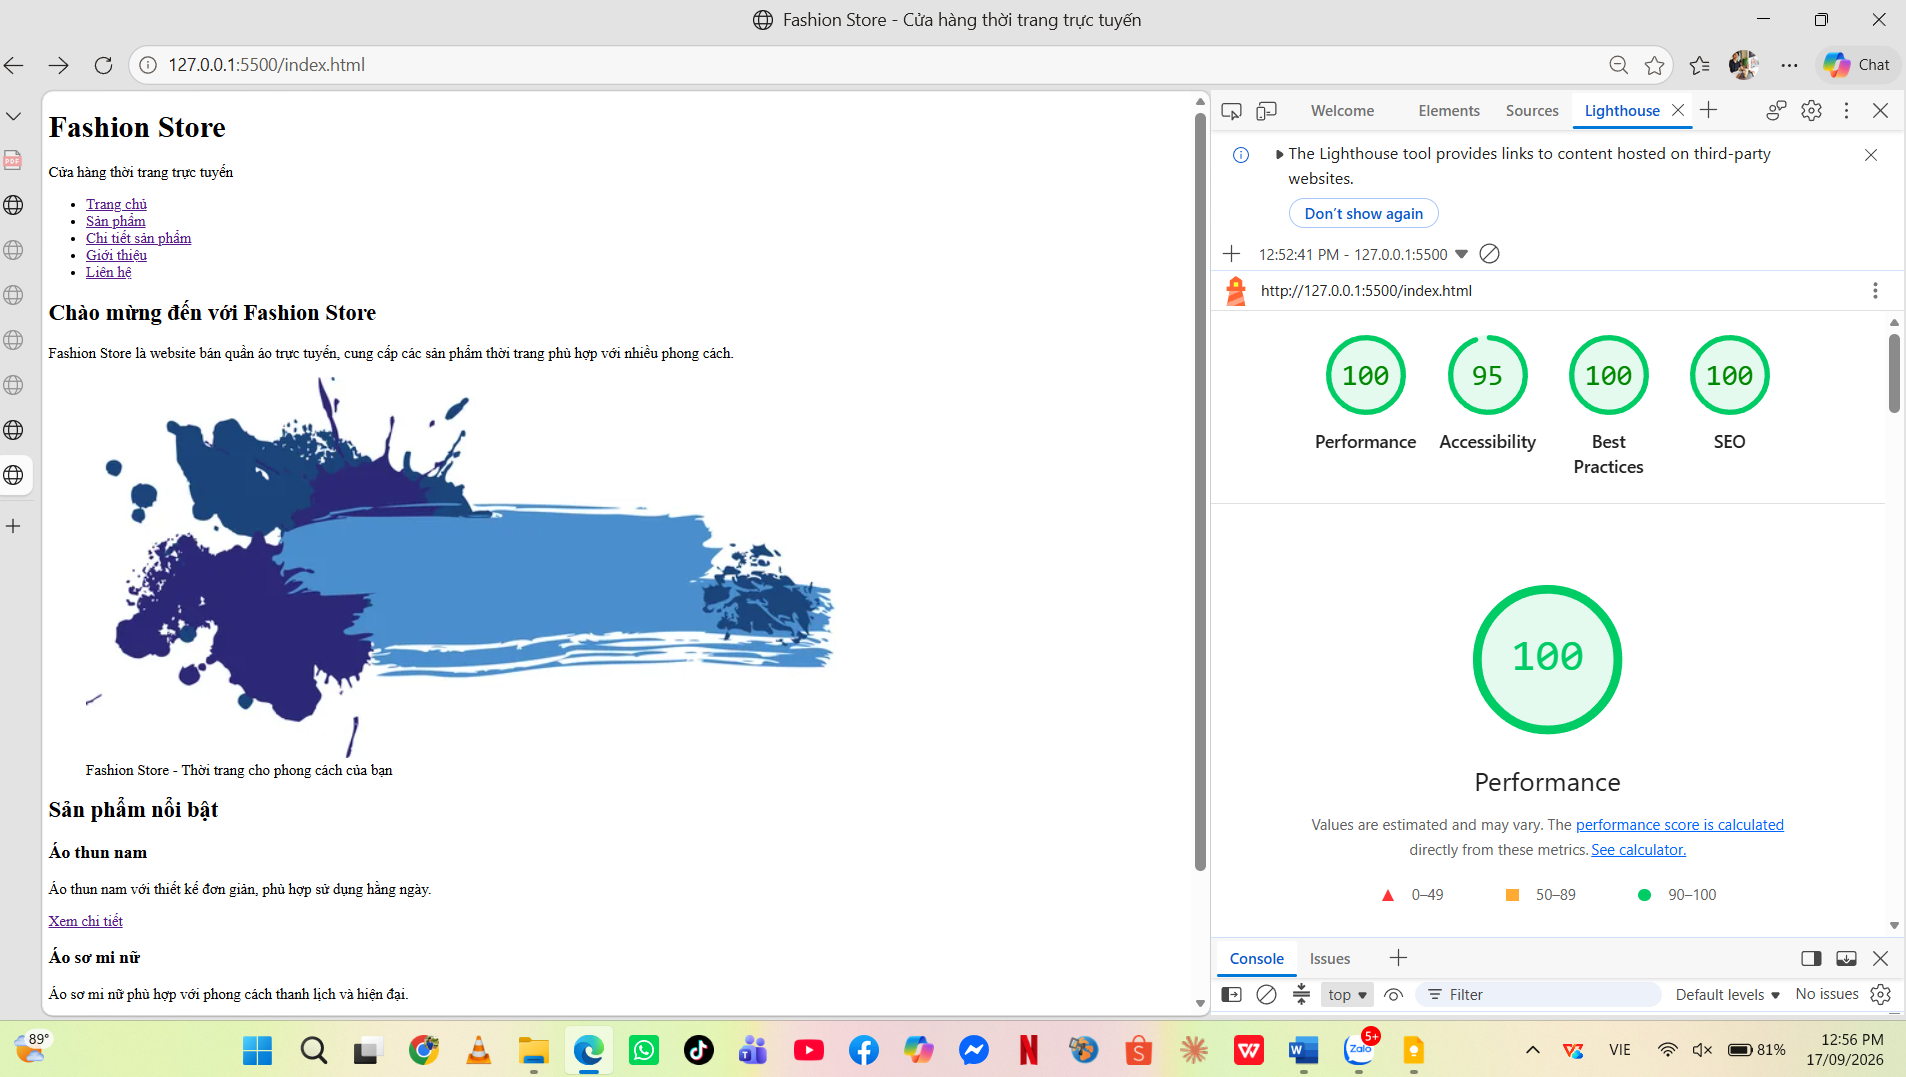
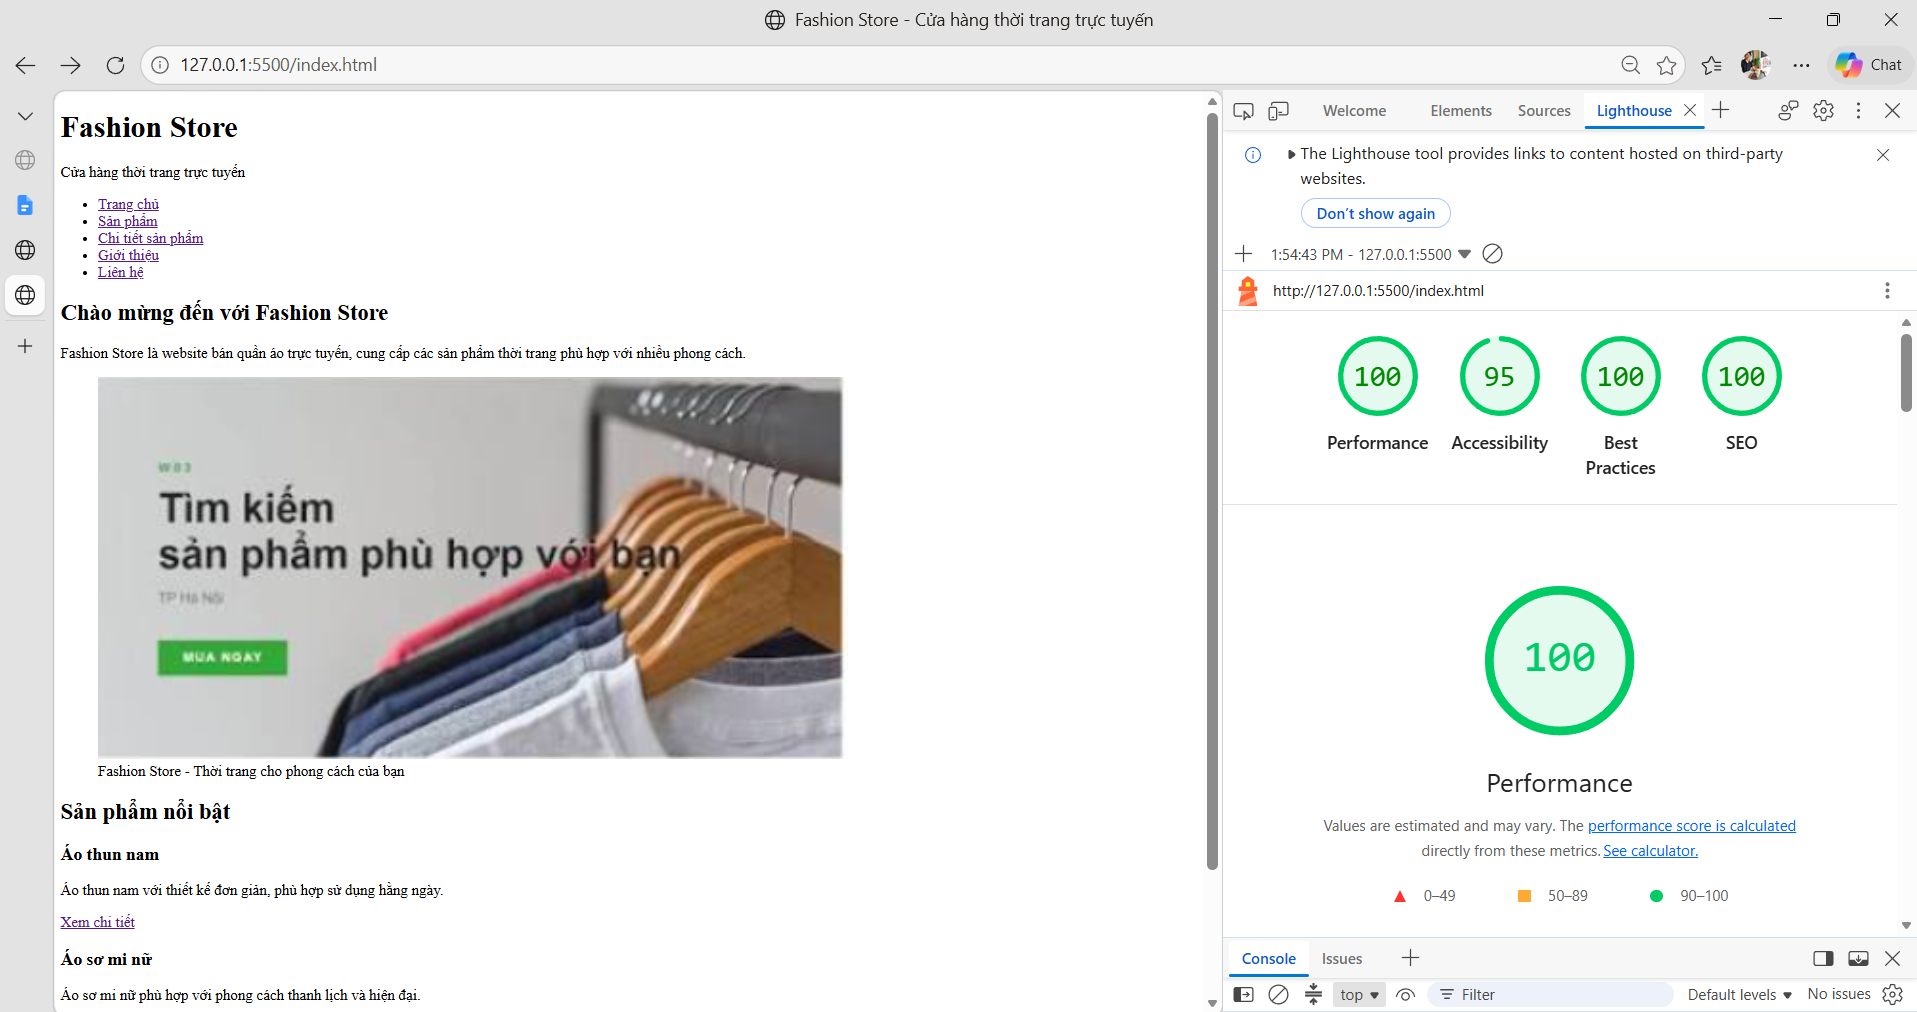
Them trang ca nhan va cap nhat hinh anh

diff --git a/thanhvien/phoutsana/gioithieu.html b/thanhvien/phoutsana/gioithieu.html
@@ -1,0 +1,239 @@
+<!DOCTYPE html>
+<html lang="vi">
+
+<head>
+    <meta charset="UTF-8">
+    <meta name="viewport" content="width=device-width, initial-scale=1.0">
+
+    <title>Giới thiệu cá nhân - Xayyatiew Phoutsana</title>
+
+    <meta name="description"
+        content="Trang giới thiệu cá nhân của Xayyatiew Phoutsana, sinh viên Công nghệ Thông tin, thành viên nhóm 08.">
+</head>
+
+<body>
+
+    <header>
+        <h1>Xayyatiew Phoutsana</h1>
+
+        <p>
+            Sinh viên Công nghệ Thông tin -
+            Đam mê Lập trình Web & IoT
+        </p>
+    </header>
+
+
+    <!-- ĐIỀU HƯỚNG TRANG CÁ NHÂN -->
+    <nav aria-label="Điều hướng trang cá nhân">
+        <ul>
+
+            <!-- Từ trang cá nhân → Trang chủ nhóm -->
+            <li>
+                <a href="../../index.html">
+                    Quay về trang chủ nhóm
+                </a>
+            </li>
+
+            <!-- Từ trang cá nhân → Trang giới thiệu nhóm -->
+            <li>
+                <a href="../../gioi-thieu.html">
+                    Quay về trang giới thiệu nhóm
+                </a>
+            </li>
+
+        </ul>
+    </nav>
+
+
+    <main>
+
+        <!-- GIỚI THIỆU BẢN THÂN -->
+        <section>
+
+            <h2>Giới thiệu bản thân</h2>
+
+            <figure>
+
+                <img src="avatar.jpg" alt="Ảnh chân dung của Xayyatiew Phoutsana" width="200">
+
+                <figcaption>
+                    Xayyatiew Phoutsana - Thành viên nhóm 08
+                </figcaption>
+
+            </figure>
+
+            <p>
+                Xin chào, mình là
+                <strong>Xayyatiew Phoutsana</strong>.
+                Mình hiện đang là sinh viên chuyên ngành
+                Công nghệ Thông tin tại Trường Đại học
+                Sư phạm – Đại học Đà Nẵng.
+                Mình đang hướng tới mục tiêu phát triển
+                bản thân trở thành một lập trình viên
+                Full-stack chuyên nghiệp.
+            </p>
+
+        </section>
+
+
+        <!-- KỸ NĂNG -->
+        <section>
+
+            <h2>Kỹ năng & Ngoại ngữ</h2>
+
+            <ul>
+
+                <li>
+                    <strong>Lập trình Web:</strong>
+                    HTML, CSS, JavaScript, PHP, MySQL, Node.js.
+                </li>
+
+                <li>
+                    <strong>Phần mềm & IoT:</strong>
+                    C++, Java, Python, Arduino,
+                    RFID, Servo và LCD.
+                </li>
+
+                <li>
+                    <strong>Ngoại ngữ:</strong>
+                    Tiếng Việt, Tiếng Lào, Tiếng Thái
+                    và đang trau dồi Tiếng Anh chuyên ngành IT.
+                </li>
+
+            </ul>
+
+        </section>
+
+
+        <!-- DỰ ÁN VÀ SỞ THÍCH -->
+        <article>
+
+            <h2>Dự án tiêu biểu & Sở thích</h2>
+
+            <p>
+                Mình thích áp dụng công nghệ vào thực tiễn.
+                Mình từng phát triển hệ thống gợi ý phim sử dụng
+                thuật toán TF-IDF và Cosine Similarity,
+                cũng như xây dựng nguyên mẫu khóa cửa tự động
+                bằng RFID và Arduino.
+                Ngoài giờ code, mình có sở thích luyện tập
+                kỹ năng thuyết trình, giao tiếp, xem phim,
+                đọc sách và chạy bộ.
+            </p>
+
+        </article>
+
+
+        <!-- THỜI KHÓA BIỂU -->
+        <section>
+
+            <h2>Thời khóa biểu học kỳ này</h2>
+
+            <table>
+
+                <caption>
+                    Lịch học hàng tuần của Phoutsana
+                </caption>
+
+                <thead>
+
+                    <tr>
+
+                        <th scope="col">Buổi</th>
+
+                        <th scope="col">Thứ 2</th>
+
+                        <th scope="col">Thứ 3</th>
+
+                        <th scope="col">Thứ 4</th>
+
+                        <th scope="col">Thứ 5</th>
+
+                        <th scope="col">Thứ 6</th>
+
+                        <th scope="col">Thứ 7</th>
+
+                        <th scope="col">Chủ nhật</th>
+
+                    </tr>
+
+                </thead>
+
+
+                <tbody>
+
+                    <tr>
+
+                        <th scope="row">Sáng</th>
+
+                        <td>-</td>
+
+                        <td>-</td>
+
+                        <td>-</td>
+
+                        <td>
+                            Khai phá dữ liệu<br>
+                            Hệ phân tán
+                        </td>
+
+                        <td>-</td>
+
+                        <td>
+                            Thiết kế & Lập trình Web
+                        </td>
+
+                        <td>-</td>
+
+                    </tr>
+
+
+                    <tr>
+
+                        <th scope="row">Chiều</th>
+
+                        <td>
+                            An toàn thông tin
+                        </td>
+
+                        <td>
+                            Hệ quản trị CSDL
+                        </td>
+
+                        <td>-</td>
+
+                        <td>
+                            Công nghệ phần mềm<br>
+                            Lịch sử Đảng
+                        </td>
+
+                        <td>-</td>
+
+                        <td>-</td>
+
+                        <td>-</td>
+
+                    </tr>
+
+                </tbody>
+
+            </table>
+
+        </section>
+
+    </main>
+
+
+    <footer>
+
+        <p>
+            &copy; 2026 Trang cá nhân của
+            Xayyatiew Phoutsana -
+            Đồ án Web Nhóm 08.
+        </p>
+
+    </footer>
+
+</body>
+
+</html>
